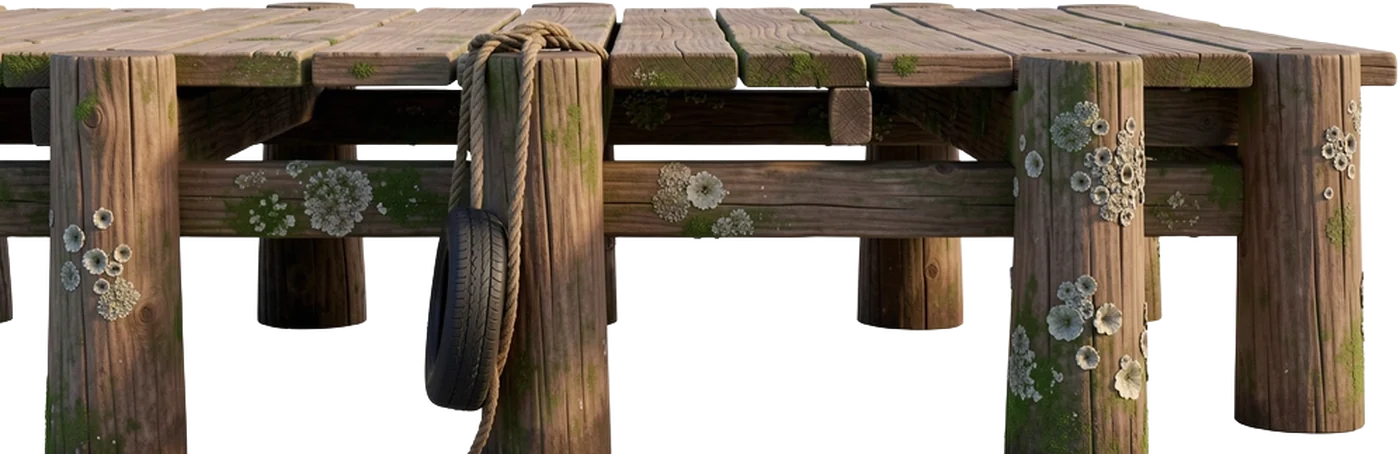
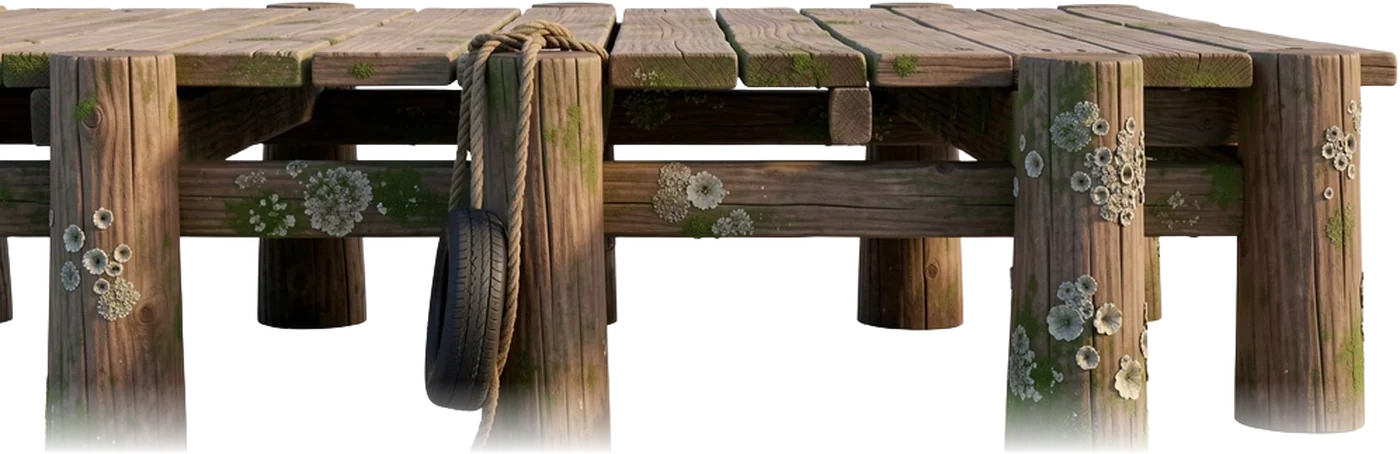
Pier polish: piles as wide as the deck posts, posts fade into them, soft barnacle bands varied per pile, no seam at chunk joins

diff --git a/game/level/LevelGenerator.js b/game/level/LevelGenerator.js
@@ -72,10 +72,11 @@ export const PROPS = {
     wreck: { keys: ['wreck_1', 'wreck_2', 'wreck_3'], width: [1300, 1900], sink: 0.3, reach: 0.5, flat: 0.3, depth: -3, max: 1, slot: 'hull', every: 3, tint: 0xb6c6cc },
     trawler: { keys: ['trawler_1', 'cutter_1'], width: [880, 1150], sink: 0.22, reach: 0.5, flat: 0.3, depth: -3, max: 1, slot: 'hull', every: 3, tint: 0xc4d0d4 },
     // Pier (generated art): stands at the surface, not on a floor spot (pierAt / drawPier).
-    // `piles` = pile positions across the deck (under the deck's own stubs), `pileSlices` = where the pile art is cut
-    // into band (above a) and foot (below b); the wood between is the tileable pier_pile_mid, `above` = share of the deck above the waterline.
-    pier: { keys: ['pier_deck', 'pier_pile', 'pier_pile_mid'], width: [1300, 1600], surface: true, every: 4, chance: 0.5, max: 1,
-        piles: [0.083, 0.383, 0.769, 0.928], pileWidth: 0.1, pileSlices: [0.47, 0.58], above: 0.2, depth: -3, tint: 0xc4d0d4 },
+    // `piles` = pile positions across the deck (under its own posts), `pileWidth` = post width (share of the deck),
+    // `pileWood` = share of the pile art that is wood (band, seamless wood strip and foot are cut from one
+    // generated pile, soft-edged), `above` = share of the deck above the waterline.
+    pier: { keys: ['pier_deck', 'pier_pile_mid', 'pier_band', 'pier_foot'], width: [1300, 1600], surface: true, every: 4, chance: 0.5, max: 1,
+        piles: [0.083, 0.383, 0.769, 0.928], pileWidth: 0.1, pileWood: 0.7, above: 0.2, depth: -3, tint: 0xc4d0d4 },
     rowboat: { keys: ['rowboat_1'], width: [420, 560], sink: 0.2, reach: 0.2, flat: 0.35, depth: -1, max: 1 },
     // Generated art (FLUX.2 klein, Replicate): plants between the kelp stalks.
     seagrass: { keys: ['seagrass_1'], width: [220, 340], sink: 0.12, reach: 0.2, flat: 0.6, depth: -1, max: 2, sway: 0.6 },
@@ -799,36 +800,37 @@ export default class LevelGenerator {
 
     /**
      * This chunk's share of a pier: the deck where it lies in the chunk, and each pile as a
-     * vertical 3-slice — barnacle band on top, a seamless wood strip tiled down through
-     * the chunks, the overgrown foot sunk into the rock.
+     * seamless wood strip tiled down through the chunks, a barnacle band in the tidal zone
+     * (varied per pile) and the overgrown foot sunk into the rock.
      */
     drawPier(chunk, pier, oy, keep) {
         const s = this.scene, p = PROPS.pier, y1 = oy + CH;
-        const tex = s.textures.get('pier_pile');
-        if (!tex.has('top')) {
-            const src = tex.getSourceImage(), W = src.width, H = src.height;
-            const [a, b] = p.pileSlices;
-            tex.add('top', 0, 0, 0, W, Math.round(H * a));
-            tex.add('foot', 0, 0, Math.round(H * b), W, H - Math.round(H * b));
-        }
-        const fw = tex.get('top').width, pw = pier.w * p.pileWidth, k = pw / fw;
-        const piece = (frame, x, y, h) => keep(s.add.image(x, y, 'pier_pile', frame).setOrigin(0.5, 0)
+        const frame = key => s.textures.getFrame(key);
+        // The pile art is wider than its wood (growth sticks out): size it so the wood
+        // matches the deck's own posts, which fade into the piles at their bottom.
+        const fw = frame('pier_pile_mid').width, pw = pier.w * p.pileWidth / p.pileWood, k = pw / fw;
+        const piece = (key, x, y, h) => keep(s.add.image(x, y, key).setOrigin(0.5, 0)
             .setDisplaySize(pw, h).setDepth(p.depth).setTint(p.tint));
         if (Math.max(0, pier.deckTop) >= oy && Math.max(0, pier.deckTop) < y1) {      // the deck pokes above the surface
             keep(s.add.image(pier.x0, pier.deckTop, 'pier_deck').setOrigin(0.5, 0)
                 .setDisplaySize(pier.w, pier.deckH).setDepth(p.depth + 0.01).setTint(p.tint));
         }
+        const top = pier.deckTop + pier.deckH * 0.8;                   // hidden behind the posts' opaque part
         for (const q of pier.piles) {
-            const top = pier.deckTop + pier.deckH * 0.9, topH = tex.get('top').height * k;
-            const footH = tex.get('foot').height * k, foot = q.ground + pw * 0.5 - footH;
-            if (top >= oy && top < y1) piece('top', q.x, top, topH);
-            if (foot >= oy && foot < y1) piece('foot', q.x, foot, footH);
-            const m0 = Math.max(oy, top + topH - 2), m1 = Math.min(y1, foot + 2);
-            if (m1 > m0) {        // seamless wood strip, tiled by world y so chunk joins don't show
+            const footH = frame('pier_foot').height * k, foot = q.ground + pw * 0.5 - footH;
+            if (foot >= oy && foot < y1) piece('pier_foot', q.x, foot, footH);
+            // Seamless wood strip, tiled by world y; one pixel of overlap at chunk joins.
+            const m0 = Math.max(oy, top), m1 = Math.min(y1 + 1, foot + 2);
+            if (m1 > m0) {
                 const mid = keep(s.add.tileSprite(q.x, m0, fw, (m1 - m0) / k, 'pier_pile_mid')
                     .setOrigin(0.5, 0).setScale(k).setDepth(p.depth - 0.01).setTint(p.tint));
                 mid.tilePositionY = m0 / k;
             }
+            // Barnacle and mussel band in the tidal zone: its own height, size and side per pile.
+            const r = Math.abs(Math.sin(q.x * 12.9898) * 43758.5453) % 1, r2 = (r * 7.31) % 1;
+            const bandH = frame('pier_band').height * k * (0.75 + 0.5 * r2);
+            const by = pier.deckTop + pier.deckH * (1.05 + 0.6 * r);
+            if (by >= oy && by < y1 && by + bandH < foot) piece('pier_band', q.x, by, bandH).setFlipX(r2 < 0.5);
         }
     }
 
